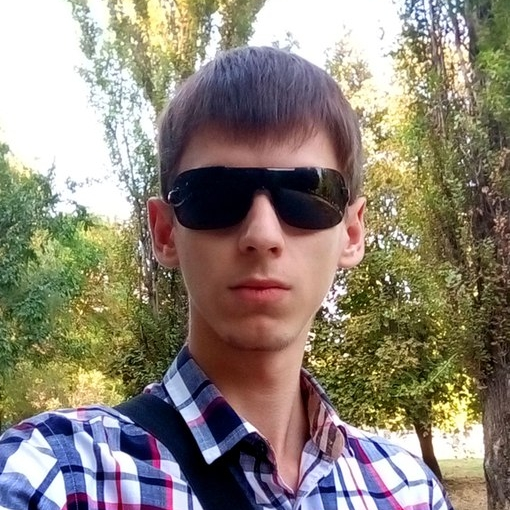
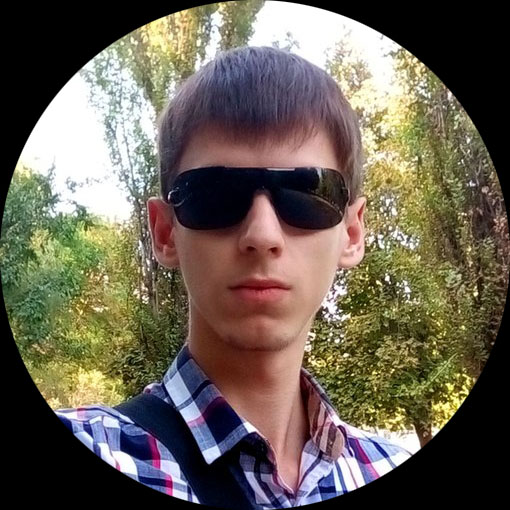
landscape mode added

diff --git a/index.html b/index.html
@@ -15,6 +15,7 @@
 <body onscroll="onBodyScroll()">
 <script type="text/javascript" src=js/mc.js></script>
 <noscript><div><img src=https://mc.yandex.ru/watch/42408679 style="position:absolute; left:-9999px;" alt="" /></div></noscript>
+<div id=meter></div>
 
 <div class=parallax id=desktop>
 	<div class=parallax__group>
@@ -45,11 +46,11 @@
 				<a target=_blank href=https://ru.linkedin.com/in/raslav>
 					<img class=icon_link id=lin src=svg/desktop/linkedin-box.svg /></a>
 				<a target=_blank href=https://rostov.hh.ru/resume/5a21394aff02f385b80039ed1f3447686a5067>
-					<img class=icon_link id=hh src=png/desktop/hh.png /></a>
+					<img class=icon_link id=hh src=svg/desktop/hh.svg /></a>
 				<a target=_blank href=https://github.com/Atomofiron>
 					<img class=icon_link id=git src=svg/desktop/github-circle.svg /></a>
-				<!--<a target=_blank href=https://play.google.com/store/apps/developer?id=Ярослав+Нестеров>
-					<img class=icon_link id=play src=svg/desktop/google-play.svg /></a>-->
+				<a target=_blank href=https://play.google.com/store/apps/developer?id=Ярослав+Нестеров>
+					<img class=icon_link id=play src=svg/desktop/google-play.svg /></a>
 				<a target=_blank href=https://twitter.com/atomofiron>
 					<img class=icon_link id=twitter src=svg/desktop/twitter.svg /></a>
 				<a target="_blank" href=https://t.me/atomofiron>
@@ -64,29 +65,43 @@
 	</div>
 </div>
 
-<div id=mobile>
+<div>
 <center>
-	<img id=ava src=ava.jpg /><br>
-	<font class=unhoverable id=name>Ярослав Нестеров</font><br>
-	<font class=unhoverable id=dignity>Android Разработчик</font><br>
-	<a target=_blank href=https://vk.com/ra.slav>
-		<img class=icon_link id=vk src=svg/mobile/vk-circle.svg /></a>
-	<a target="_blank" href=https://t.me/atomofiron>
-		<img class=icon_link id=telegram src=svg/mobile/telegram.svg /></a>
-	<a target=_blank href=https://github.com/Atomofiron>
-		<img class=icon_link id=git src=svg/mobile/github-circle.svg /></a><br>
-	<a target=_blank href=https://ru.linkedin.com/in/raslav>
-		<img class=icon_link id=lin src=svg/mobile/linkedin-box.svg /></a>
-	<a target=_blank href=https://play.google.com/store/apps/developer?id=Ярослав+Нестеров>
-		<img class=icon_link id=play src=svg/mobile/google-play.svg /></a>
-	<a target=_blank href=https://twitter.com/atomofiron>
-		<img class=icon_link id=twitter src=svg/mobile/twitter.svg /></a><br>
-	<a href=mailto:atomofiron@yandex.ru>
-		<img class=icon_link id=email src=svg/mobile/email.svg /></a>
-	<a target=_blank href=https://rostov.hh.ru/resume/5a21394aff02f385b80039ed1f3447686a5067>
-		<img class=icon_link id=hh src=png/mobile/hh.png /></a>
-	<a href=skype:atomofiron?chat>
-		<img class=icon_link id=skype src=svg/mobile/skype.svg /></a>
+</div>
+<table id=mobile border=0>
+	<tr>
+		<td>
+			<img id=ava src=ava.jpg /><br>
+			<font class=unhoverable id=name>Ярослав Нестеров</font><br>
+			<font class=unhoverable id=dignity>Android Разработчик</font><br>
+		</td>
+		<td id=land rowspan="2"></td>
+	</tr>
+	<tr>
+		<td id=port>
+			<div id=links>
+				<a target=_blank href=https://vk.com/ra.slav>
+					<img class=icon_link id=vk src=svg/mobile/vk-circle.svg /></a>
+				<a target="_blank" href=https://t.me/atomofiron>
+					<img class=icon_link id=telegram src=svg/mobile/telegram.svg /></a>
+				<a target=_blank href=https://github.com/Atomofiron>
+					<img class=icon_link id=git src=svg/mobile/github-circle.svg /></a><br>
+				<a target=_blank href=https://ru.linkedin.com/in/raslav>
+					<img class=icon_link id=lin src=svg/mobile/linkedin-box.svg /></a>
+				<a target=_blank href=https://play.google.com/store/apps/developer?id=Ярослав+Нестеров>
+					<img class=icon_link id=play src=svg/mobile/google-play.svg /></a>
+				<a target=_blank href=https://twitter.com/atomofiron>
+					<img class=icon_link id=twitter src=svg/mobile/twitter.svg /></a><br>
+				<a href=mailto:atomofiron@yandex.ru>
+					<img class=icon_link id=email src=svg/mobile/email.svg /></a>
+				<a target=_blank href=https://rostov.hh.ru/resume/5a21394aff02f385b80039ed1f3447686a5067>
+					<img class=icon_link id=hh src=svg/mobile/hh.svg /></a>
+				<a href=skype:atomofiron?chat>
+					<img class=icon_link id=skype src=svg/mobile/skype.svg /></a>
+			</div>
+		</td>
+	</tr>
+</table>
 </center>
 </div>
 <center><font id=cr class=unhoverable size="3" style="display: none;">&copy; Нестеров Я. В., оформление сайта, 2017</font></center>

diff --git a/js/mobile.js b/js/mobile.js
@@ -2,7 +2,8 @@
 function onBodyScroll() {}
 
 function getSize(percent) {
-	return window.innerWidth * percent / 100
+	var size = land ? window.innerHeight : window.innerWidth
+	return size * percent / 100
 }
 
 function forEach(arr, callback) {
@@ -10,10 +11,45 @@ function forEach(arr, callback) {
 		callback(arr[i], i, arr)
 }
 
-var icons = gets("icon_link")
+get("ava").style.width = "50%"
 
-var size = Math.floor(getSize(10)) + px
-forEach(icons, function(item, i, arr) {
-	item.style.width = size
-	item.style.height = size
-})
+var icons = gets("icon_link")
+var port = true
+
+function updateIconsSize() {
+	var size = Math.floor(getSize(10)) + px
+	forEach(icons, function(item, i, arr) {
+		item.style.width = size
+		item.style.height = size
+	})
+}
+
+function updateOrientation() {
+	land = window.innerHeight < window.innerWidth * 0.8
+	if (land == port) {
+		var portBox = get("port")
+		var landBox = get("land")
+		var links = get("links")
+
+		if (land) {
+			portBox.removeChild(links)
+			landBox.appendChild(links)
+			landBox.style.width = "50%"
+
+			get("name").style.fontSize = "24pt"
+			get("dignity").style.fontSize = "16pt"
+		} else {
+			landBox.removeChild(links)
+			portBox.appendChild(links)
+			landBox.style.width = "0%"
+
+			get("name").style.fontSize = "48pt"
+			get("dignity").style.fontSize = "32pt"
+		}
+	}
+	port = !land
+	updateIconsSize()
+}
+window.onresize = updateOrientation
+updateOrientation()
+

diff --git a/js/main.js b/js/main.js
@@ -17,11 +17,18 @@ function append(obj, string) {
 function getPX(value) {
 	return (value.replace(px, ""))*1
 }
+function getScreenDiagonal() {
+	var cm = get("meter").clientHeight
+	var dpi = Math.sqrt(2 * cm * cm) / Math.sqrt(128) * 2.51
+	return Math.sqrt(Math.pow(window.innerWidth, 2) + Math.pow(window.innerHeight, 2)) / dpi
+}
 
 var body = document.getElementsByTagName("body")[0]
-var mobile = (window.innerWidth < window.innerHeight || get("head_title").offsetLeft < -10)
+var phone = getScreenDiagonal() < 7
+var land = window.innerHeight < window.innerWidth * 0.8
+var mobile = phone || get("head_title").offsetLeft < -10
 
-get(mobile ? "mobile" : "desktop").style.display = "block"
+get(mobile ? "mobile" : "desktop").style.visibility = "visible"
 body.removeChild(get(!mobile ? "mobile" : "desktop"))
 
 var script = create('script')

diff --git a/css/mobile.css b/css/mobile.css
@@ -1,13 +1,17 @@
 
+#mobile {
+	width: 100%;
+	height: 100%;
+}
+
 /* Имя и ава */
 #mobile #name {
-	font-size: 32pt;
-}
-#mobile #dignity {
 	font-size: 24pt;
 }
+#mobile #dignity {
+	font-size: 16pt;
+}
 #mobile #ava {
-	width: 50%;
 	border-radius: 999px;
 	padding-top: 3%;
 }
@@ -46,4 +50,12 @@
 }
 #mobile #email {
 	background-color: #ffdb4d;
+}
+
+#port {
+	height: 100%;
+}
+#mobile, #port {
+	vertical-align: top;
+	text-align: center;
 }

diff --git a/css/main.css b/css/main.css
@@ -41,7 +41,7 @@ body, html {
 }
 
 #desktop, #mobile {
-	display: none;
+	visibility: hide;
 }
 
 .inline {
@@ -49,4 +49,10 @@ body, html {
 }
 .unhoverable {
 	cursor: default;
+}
+
+#meter {
+	height: 8cm;
+	position: absolute;
+	opacity: 0;
 }
